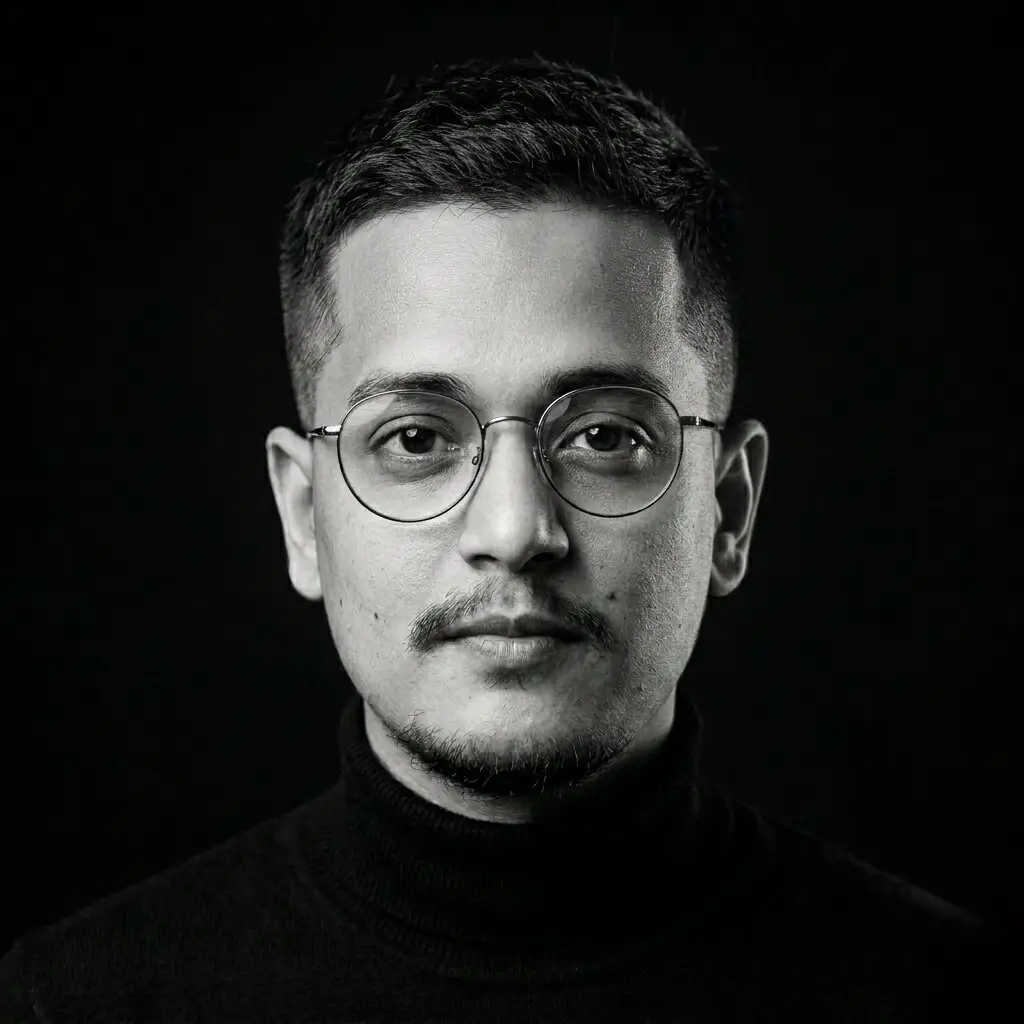
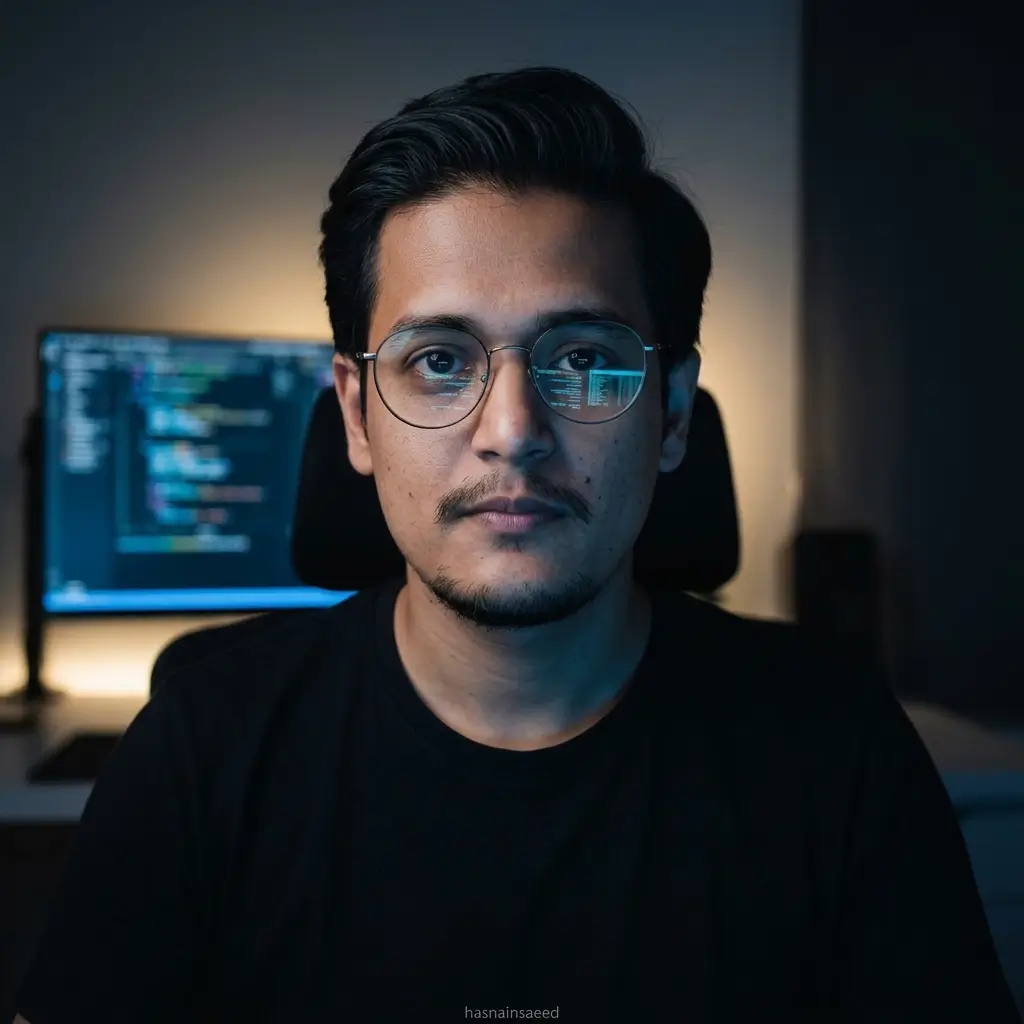
Remove link from feature block items

diff --git a/src/components/blocks/features.tsx b/src/components/blocks/features.tsx
@@ -74,8 +74,7 @@ export const Features = () => {
                     />
                   </div>
 
-                  <Link
-                    href="#"
+                  <div
                     className={
                       "group flex items-center justify-between gap-4 pe-4 pt-4 md:pe-6 md:pt-6"
                     }
@@ -88,11 +87,7 @@ export const Features = () => {
                         {item.des}
                       </p>
                     </div>
-
-                    <div className="rounded-full border p-2">
-                      <ChevronRight className="size-4 transition-transform group-hover:translate-x-1 lg:size-6" />
-                    </div>
-                  </Link>
+                  </div>
                 </div>
                 {i < items.length - 1 && (
                   <div className="relative hidden md:block">
